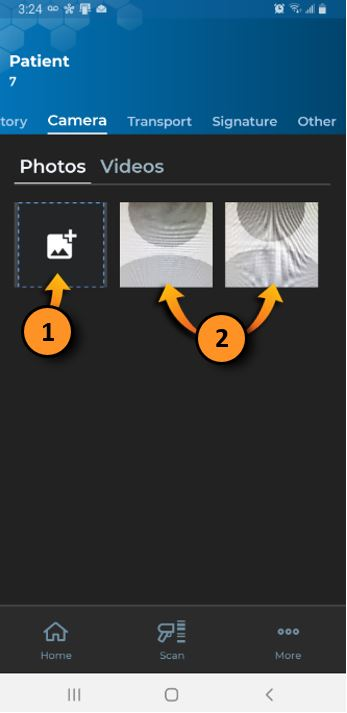
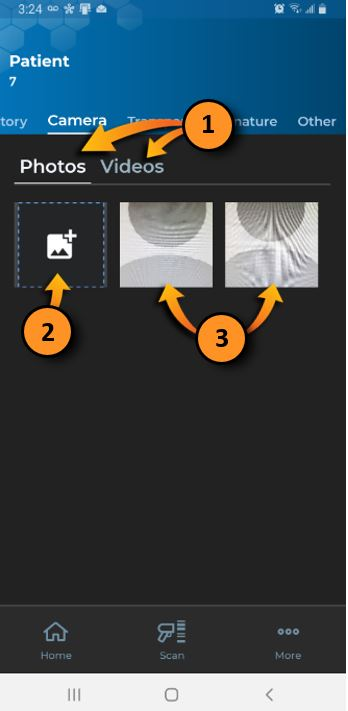
Commit of Content/Patient Tracking System/Android_2.0/Working with Patients_Android_2.0.htm,Content/Resources/Images/Patient Tracking Mobile/Android 2.0/~$Images.docx,Content/Resources/Images/Patient Tracking Mobile/Android 2.0/Individual 0019.JPG,Content/Resources/Images/Patient Tracking Mobile/And

diff --git a/Content/Patient Tracking System/Android_2.0/Working with Patients_Android_2.0.htm b/Content/Patient Tracking System/Android_2.0/Working with Patients_Android_2.0.htm
@@ -16,7 +16,7 @@
                         <p class="noafter">
                             <img src="../../Resources/Images/Patient Tracking Mobile/Android 2.0/Individual 001.JPG" style="height: auto;" class="imagesizeios" MadCap:mediastyle="@media print { max-width: 100%; }" />
                         </p>
-                        <p class="Figuretest" MadCap:autonum=" &lt;b&gt;Figure 1-1: &lt;/b&gt;"><a name="_Triage_Patients1"></a> Triage Patients</p>
+                        <p class="Figuretest" MadCap:autonum=" &lt;b&gt;Figure 1-1: &lt;/b&gt;"><a name="Main_Patient_Tracking_Screen_01"></a> Triage Patients</p>
                     </td>
                     <td style="padding-left: 20px;">
                         <p>Scanning a barcode or triage tag will start an individual patient record or retrieve existing patient information that has already been entered into the system for that patient with that specific tag or barcode. A barcode on a triage tag is a unique ID.</p>
@@ -30,7 +30,7 @@
                         <p class="noafter">
                             <img src="../../Resources/Images/Patient Tracking Mobile/Android 2.0/Individual 002.JPG" class="imagesizeios" />
                         </p>
-                        <p class="Figuretest" MadCap:autonum=" &lt;b&gt;Figure 1-2: &lt;/b&gt;"><a name="_Patient_ID1"></a> Patient ID</p>
+                        <p class="Figuretest" MadCap:autonum=" &lt;b&gt;Figure 1-2: &lt;/b&gt;"><a name="Patient_ID"></a>Patient ID</p>
                     </td>
                     <td style="padding-left: 20px;">
                         <p>The next step requires the user to enter a Patient ID, as shown in <MadCap:xref href="#_Patient_ID1" class="figures">FIGURE 1-2</MadCap:xref>:</p>
@@ -167,11 +167,11 @@
                     <td style="padding-left: 20px;">
                         <p><b>General navigation menus:</b>
                         </p>
-                        <p>The  <b>More</b> button mentioned previously will display the following options:</p>
+                        <p>The  <b>More</b> button mentioned previously will allow you to perfom additional options:</p>
                         <ol class="Steps">
-                            <li>This section contains the options to add, or remove media :<ul><li><img src="../../Resources/Images/Patient Tracking Mobile/Android 2.0/Individual 007.JPG" class="small_icon" /> To add or remove photos</li><li><img src="../../Resources/Images/Patient Tracking Mobile/Android 2.0/Individual 008.JPG" class="small_icon" /> To add or remove videos</li><li><img src="../../Resources/Images/Patient Tracking Mobile/Android 2.0/Individual 009.JPG" class="small_icon" /> To add or remove audio recordings</li><li><img src="../../Resources/Images/Patient Tracking Mobile/Android 2.0/Individual 0010.JPG" class="small_icon" /> Use this option to scan <b>information</b> into the Information panel or to <b>create a new patient</b></li></ul></li>
+                            <li>This section contains the options to add, or remove media :<ul><li><img src="../../Resources/Images/Patient Tracking Mobile/Android 2.0/Individual 007.JPG" class="small_icon" /> To review, add, or remove photos.</li><li><img src="../../Resources/Images/Patient Tracking Mobile/Android 2.0/Individual 008.JPG" class="small_icon" />  To review, add, or remove videos.</li><li><img src="../../Resources/Images/Patient Tracking Mobile/Android 2.0/Individual 009.JPG" class="small_icon" /> To review, add, or remove audio recordings. While on a patient's record, audio can be added to supplement the text information.  If the user is on a specific section of the application and does not have time to type into the device, the user may capture audio notes that will be associated with that specific page or panel in PTS.</li><li><img src="../../Resources/Images/Patient Tracking Mobile/Android 2.0/Individual 0010.JPG" class="small_icon" /> Use this option to scan <b>information</b> into the Information panel or to <b>create a new patient</b></li></ul></li>
                             <li>This sectio allows you to jump straight into a specific panel</li>
-                            <li>Use this options to <b>save</b>, <b>close</b>, and/or <b>create</b> a new record</li>
+                            <li>In this section:<ul style="list-style-type: circle;"><li><b>Summary</b> – View the current patient’s main details.</li><li><b>Close Patient</b> – Discard the current record and return to the Patient Tracking main screen.</li><li><b>Save</b>- Captures a snapshot of the patient and continue working with the patient record.</li><li><b>Save &amp; New</b> - Save the current record and start a new one. </li></ul></li>
                         </ol>
                     </td>
                 </tr>
@@ -397,26 +397,116 @@
             </tbody>
         </table>
         <table style="width: 100%;" class="mobile">
-            <col style="width: 183px;" />
+            <col style="width: 30%;" />
             <col style="width: 70%;" />
             <tbody>
                 <tr>
                     <td>
-                        <p MadCap:conditions="Default.Android" class="noafter">
-                            <img src="../Resources/Images/Android Xamarin Shots/Save and.PNG" class="imagesizeios" MadCap:conditions="Default.Android" />
+                        <p class="noafter">
+                            <img src="../../Resources/Images/Patient Tracking Mobile/Android 2.0/Individual 0019.JPG" class="imagesizeios" style="width: 189px;height: 386px;" />
                         </p>
-                        <p class="Figuretest" style="text-align: left;" MadCap:autonum=" &lt;b&gt;Figure 1-16: &lt;/b&gt;"><a name="Next_Steps_Panel"></a>Next Steps Panel</p>
+                        <p class="Figuretest" MadCap:autonum=" &lt;b&gt;Figure 1-16: &lt;/b&gt;"><a name="Panel_Camera"></a>Camera panel</p>
                     </td>
-                    <td style="font-style: normal;font-weight: normal;padding-left: 20px;">
-                        <p style="font-weight: normal;">Using the Save Patient? Prompt, as shown in <MadCap:xref href="#Next_Steps_Panel" class="figures">FIGURE 1-13</MadCap:xref>:</p>
-                        <p>The user will be asked to save the patient record after <i>swiping</i> from the <b>Transport</b> or <b>Other</b> screen.</p>
-                        <p>  The patient record will <i>automatically</i> be saved and the user decides what action  to take next:</p>
+                    <td style="padding-left: 20px;">
+                        <p><b>Camera panel:</b>
+                        </p>
+                        <p>In this panel you will find options to add photos and vide to the patient's record.</p>
                         <ol>
-                            <li><b>Continue with this patient</b> - Saves and keeps current record open.</li>
-                            <li><b>Enter a new patient</b> - Saves the current patient and navigates to the Patient ID panel.</li>
-                            <li><b>Return to the main screen</b> - Saves the current patient and returns to the Main Screen.</li>
-                            <li><b>Cancel</b> - Does not save the record at this time and keeps the record open.</li>
+                            <li style="font-weight: normal;"><i>Tap</i> the <b>Photo</b> or <b>Video</b> tab for the type of media you wish to add</li>
+                            <li style="font-weight: normal;"><i>Tap</i> this icon to lauch the device's camera in photo or video mode respectively.</li>
+                            <li style="font-weight: normal;">As photos and videos are added, they will display in this section. under for each tab :<ul style="list-style-type: circle;"><li style="font-weight: normal;"><b>Photo</b>: photos must be saves one at a time.<i>Tap</i> an existing photo to open <b>Image Viewer</b> which allows you to review and remove photos.</li><li style="font-weight: normal;"><b>Video</b>: videos can be up to 60 seconds in length.  Videos take a large amount of space on the device and requires more time to sync. Multiple video clips and photos per patient are allowed. While in the video tab, <i>Tap</i> and hold to delete. <i>Tap</i> once to review it </li></ul></li>
                         </ol>
+                        <p style="font-weight: normal;"><i>Swipe</i> left to continue.</p>
+                    </td>
+                </tr>
+            </tbody>
+        </table>
+        <table style="width: 100%;" class="mobile">
+            <col style="width: 30%;" />
+            <col style="width: 70%;" />
+            <tbody>
+                <tr>
+                    <td>
+                        <p class="noafter">
+                            <img src="../../Resources/Images/Patient Tracking Mobile/Android 2.0/Individual 0020.JPG" class="imagesizeios" style="width: 189px;height: 386px;" />
+                        </p>
+                        <p class="Figuretest" MadCap:autonum=" &lt;b&gt;Figure 1-17: &lt;/b&gt;"><a name="Panel_Transport"></a>Transport panel</p>
+                    </td>
+                    <td style="padding-left: 20px;">
+                        <p><b>Transport panel:</b>
+                        </p>
+                        <ul>
+                            <li>
+                                <p><i>Tap</i> each field to enter or select the applicable information regarding the patient's transport</p>
+                            </li>
+                        </ul>
+                        <p style="font-weight: normal;"><i>Swipe</i> left to continue.</p>
+                    </td>
+                </tr>
+            </tbody>
+        </table>
+        <table style="width: 100%;" class="mobile">
+            <col style="width: 30%;" />
+            <col style="width: 70%;" />
+            <tbody>
+                <tr>
+                    <td>
+                        <p class="noafter">
+                            <img src="../../Resources/Images/Patient Tracking Mobile/Android 2.0/Individual 0021.jpg" class="imagesizeios" style="width: 189px;height: 386px;" />
+                        </p>
+                        <p class="Figuretest" MadCap:autonum=" &lt;b&gt;Figure 1-18: &lt;/b&gt;"><a name="Panel_Signature"></a>Signature panel</p>
+                    </td>
+                    <td style="padding-left: 20px;">
+                        <p><b>Signature panel:</b>
+                        </p>
+                        <ul>
+                            <li style="font-weight: normal;"><i>Tap</i> the <b>Draw Your Signature</b> button to enter/capture your signature.</li>
+                        </ul>
+                        <p style="font-weight: normal;"><i>Swipe</i> left to continue.</p>
+                    </td>
+                </tr>
+            </tbody>
+        </table>
+        <table style="width: 100%;" class="mobile">
+            <col style="width: 30%;" />
+            <col style="width: 70%;" />
+            <tbody>
+                <tr>
+                    <td>
+                        <p class="noafter">
+                            <img src="../../Resources/Images/Patient Tracking Mobile/Android 2.0/Individual 0022.jpg" class="imagesizeios" style="width: 189px;height: 386px;" />
+                        </p>
+                        <p class="Figuretest" MadCap:autonum=" &lt;b&gt;Figure 1-19: &lt;/b&gt;"><a name="Panel_Other"></a>Other panel</p>
+                    </td>
+                    <td style="padding-left: 20px;">
+                        <p><b>Other panel:</b>
+                        </p>
+                        <ul>
+                            <li style="font-weight: normal;">Additional information can be entered in the <b>Other</b> panel. <i>Tap</i> each field to enter data.</li>
+                        </ul>
+                        <p style="font-weight: normal;"><i>Swipe</i> left to continue.</p>
+                    </td>
+                </tr>
+            </tbody>
+        </table>
+        <table style="width: 100%;" class="mobile">
+            <col style="width: 30%;" />
+            <col style="width: 70%;" />
+            <tbody>
+                <tr>
+                    <td>
+                        <p class="noafter">
+                            <img src="../../Resources/Images/Patient Tracking Mobile/Android 2.0/Individual 0023.jpg" class="imagesizeios" style="width: 189px;height: 386px;" />
+                        </p>
+                        <p class="Figuretest" MadCap:autonum=" &lt;b&gt;Figure 1-20: &lt;/b&gt;"><a name="Save_Patient_prompt"></a>Save Patient prompt</p>
+                    </td>
+                    <td style="padding-left: 20px;">
+                        <p>Using the<b> Save Patient? Prompt</b>, as shown in <MadCap:xref href="#Save_Patient_prompt" class="figures">Figure 1-20</MadCap:xref></p>
+                        <ul>
+                            <li><b>Continue with this Patient</b>: this option will take you back to the status panel as shown in <MadCap:xref href="#Panel_Status" class="figures">Figure 1-8</MadCap:xref>; which is the first panel of the patient's record. You will be able to review and edit the all the patient's records.</li>
+                            <li style="font-weight: normal;"><b>Enter a new Patient</b>: this option will take you back to the <b>Scan Individual</b> screen as shown in <MadCap:xref href="#_Patient_ID1" class="figures">Figure 1-2</MadCap:xref> where you can scan or enter a new patient id to create a new record or recall an existing one.</li>
+                            <li style="font-weight: normal;"><b>Return to the main screen</b>: Tap this option to return to the main Patient Tracking screen as shown in <MadCap:xref href="#_Triage_Patients1" class="figures">Figure 1-1</MadCap:xref></li>
+                        </ul>
                     </td>
                 </tr>
             </tbody>
@@ -433,100 +523,59 @@
                 </tr>
             </tbody>
         </table>
-        <h3 MadCap:autonum="1 - 1.4 ">Additional Actions (While in a patient record)</h3>
+        <h3 MadCap:autonum="1 - 1.4 ">Recalling a Previously Entered Patient Record</h3>
         <table style="width: 100%;" class="mobile">
-            <col style="width: 30%;" />
-            <col style="width: 70%;" />
-            <tbody>
-                <tr>
-                    <td style="font-style: normal;font-weight: normal;">
-                        <p MadCap:conditions="Default.Android" class="noafter">
-                            <img src="../Resources/Images/Android Xamarin Shots/ind menu1.png" class="imagesizeios" MadCap:conditions="Default.Android" />
-                        </p>
-                        <p class="Figuretest" MadCap:autonum=" &lt;b&gt;Figure 1-17: &lt;/b&gt;"><a name="Patient_Record_Menu"></a>Patient Record Menu</p>
-                        <p>&#160;</p>
-                    </td>
-                    <td style="padding-left: 20px;">
-                        <p>The <b>Menu</b> button allows users to perform the following additional functions within a patient record, as shown in <MadCap:xref href="#Patient_Record_Menu" class="figures">FIGURE 1-14</MadCap:xref>:</p>
-                        <ol>
-                            <li MadCap:conditions="Default.Windows8,Default.iOS,Default.Android"><b>Scan</b> – Save the current patient record and immediately use the camera to scan another barcode.</li>
-                            <li><b>Save</b>- Captures a snapshot of the patient and continue working with the patient record.</li>
-                            <li><b>Save + New</b> - Save the current record and start a new one. </li>
-                            <li><b>Save + Quit</b> – Save and exit the current record, and return to the Patient Tracking main screen.</li>
-                            <li><b>Close Patient</b> – Discard the current record and return to the Patient Tracking main screen.</li>
-                            <li><b>Print</b> – Print the current patient record to a connected Bluetooth Printer. </li>
-                            <li><b>Summary</b> – View the current patient’s main details.</li>
-                            <li><b>Audio</b> – Displays any audio files associated with the record.</li>
-                            <li><b>Photos</b> – Displays any photos associated with the record.</li>
-                        </ol>
-                        <ul>
-                            <li style="margin-top: 0;"><b>Videos</b> – Displays any videos associated with the record.</li>
-                        </ul>
-                    </td>
-                </tr>
-            </tbody>
-        </table>
-        <h3 MadCap:autonum="1 - 1.5 ">Capture Photo and Video</h3>
-        <table style="width: 100%;" MadCap:conditions="Default.Windows8,Default.iOS,Default.Android" class="mobile">
             <col style="width: 30%;" />
             <col style="width: 70%;" />
             <tbody>
                 <tr>
                     <td>
-                        <p class="noafter" MadCap:conditions="Default.Android">
-                            <img src="../Resources/Images/Android Xamarin Shots/photo.png" class="imagesizeios" MadCap:conditions="Default.Android" />
+                        <p class="noafter">
+                            <img src="../../Resources/Images/Patient Tracking Mobile/Android 2.0/Individual 001.JPG" class="imagesizeios" />
                         </p>
-                        <p class="Figuretest" style="text-align: left;" MadCap:autonum=" &lt;b&gt;Figure 1-18: &lt;/b&gt;"><a name="Camera_Panel1"></a>Camera Panel</p>
+                        <p class="Figuretest" MadCap:autonum=" &lt;b&gt;Figure 1-21: &lt;/b&gt;"><a name="Main_Patient_Tracking_Screen_02"></a>Main Patient Tracking Screen</p>
                     </td>
-                    <td style="font-style: normal;font-weight: normal;padding-left: 20px;">
-                        <p>This feature is only available in the <i>Individual</i> triage mode and not in <i>Group</i> Triage. To capture photos or videos, as shown in <MadCap:xref href="#Camera_Panel1" class="figures">FIGURE 1-15</MadCap:xref>:</p>
-                        <ol class="Steps">
-                            <li><i>Tap</i> the <b>Photo</b> tab  to enter photo mode or <i>tap</i> the <b>Video</b> tab to enter video mode.</li>
-                            <li><i>Tap</i> the <b>white</b> button to take a picture or start and stop a recording. </li>
-                            <li>Tap the back button on the device to go back to the previous screen.</li>
-                        </ol>
-                        <p>Videos can be up to 60 seconds in length and can be saved for review.  Video does take a large amount of space on the device and requires more time to sync. Multiple video clips per patient are allowed.</p>
-                        <p style="text-decoration: none;">To delete a photo or video, <i>tap and hold</i> on a video or picture and then <i>tap</i> the trash icon that appears in the upper right.</p>
+                    <td style="padding-left: 20px;">
+                        <p style="text-decoration: none;">Go to the Main Patient Tracking screen and <i>tap</i> <b>individual</b></p>
                     </td>
                 </tr>
             </tbody>
         </table>
-        <h3 MadCap:autonum="1 - 1.6 ">Capturing Audio Notes</h3>
-        <p>On any page in the PTS Application, audio can be added to supplement the text information.  If the user is on a specific section of the application and does not have time to type into the device, the user may capture audio notes that will be associated with that specific page or panel in PTS.</p>
         <table style="width: 100%;" class="mobile">
             <col style="width: 30%;" />
             <col style="width: 70%;" />
             <tbody>
                 <tr>
-                    <td style="font-style: normal;font-weight: normal;">
+                    <td>
                         <p class="noafter">
-                            <img src="../Resources/Images/Android Xamarin Shots/audio.PNG" class="imagesizeios" MadCap:conditions="Default.Android" />
+                            <img src="../../Resources/Images/Patient Tracking Mobile/Android 2.0/Individual 002.JPG" class="imagesizeios" />
                         </p>
-                        <p class="Figuretest" MadCap:autonum=" &lt;b&gt;Figure 1-19: &lt;/b&gt;"><a name="Audio_Notes_Panel"></a>Audio Notes Panel</p>
+                        <p class="Figuretest" MadCap:autonum=" &lt;b&gt;Figure 1-22: &lt;/b&gt;"><a name="Patient_ID_02"></a> Patient ID</p>
                     </td>
                     <td style="padding-left: 20px;">
-                        <p style="font-weight: normal;text-decoration: none;">To create a recording, as shown in <MadCap:xref href="#Audio_Notes_Panel" class="figures">FIGURE 1-16</MadCap:xref>:</p>
-                        <ol class="Steps">
-                            <li><i>Tap</i> on the <b>RECORD</b> button and begin speaking into the unit. <i>Tap</i> on the <b>RECORD</b> button a second time to stop recording.</li>
+                        <ol>
+                            <li>Manually <i>type</i> the patient or barcode number; or simply <i>scan</i> the barcode of a previously entered patient record.</li>
                         </ol>
-                        <p style="text-decoration: none;">If the user wishes to play back the notes recorded:</p>
-                        <ol class="Steps" MadCap:continue="true">
-                            <li><i>Tap</i> the <b>play</b> button for the recording.</li>
-                        </ol>
-                        <p style="font-style: normal;font-weight: normal;text-decoration: none;">When complete with audio recordings:</p>
-                        <ol class="Steps" MadCap:continue="true">
-                            <li><i>Tap</i> the back button on the device to go back to the previous screen.</li>
-                        </ol>
-                        <p>Delete a recording by <i>tapping</i> and <i>holding</i> on the item to delete, then tapping <b>Delete</b> and confirming the action</p>
                     </td>
                 </tr>
             </tbody>
         </table>
-        <h3 MadCap:autonum="1 - 1.7 ">Recalling a Previously Entered Patient Record</h3>
-        <p style="text-decoration: none;">Go to the Main Patient Tracking screen:</p>
-        <ul>
-            <li><i>Tap </i><b>Individual</b> and manually <i>type</i> the patient or barcode number; or simply <i>scan</i> the barcode of a previously entered patient record.</li>
-        </ul>
-        <p>If the Patient ID was found on the HC Standard<sup>®</sup> server, the patient record will appear and updated information can be entered.</p>
+        <table style="width: 100%;" class="mobile">
+            <col style="width: 30%;" />
+            <col style="width: 70%;" />
+            <tbody>
+                <tr>
+                    <td>
+                        <p class="noafter">
+                            <img src="../../Resources/Images/Patient Tracking Mobile/Android 2.0/Individual 0024.jpg" class="imagesizeios" />
+                        </p>
+                        <p class="Figuretest" MadCap:autonum=" &lt;b&gt;Figure 1-23: &lt;/b&gt;"><a name="_Patient_ID1"></a> Patient ID</p>
+                    </td>
+                    <td style="padding-left: 20px;">
+                        <p>If the Patient ID was found on the HC Standard<sup>®</sup> server, a message will appear indicating so. <i>Tap</i> <b>OK</b> to retrieve the patient's record.</p>
+                    </td>
+                </tr>
+            </tbody>
+        </table>
     </body>
 </html>
